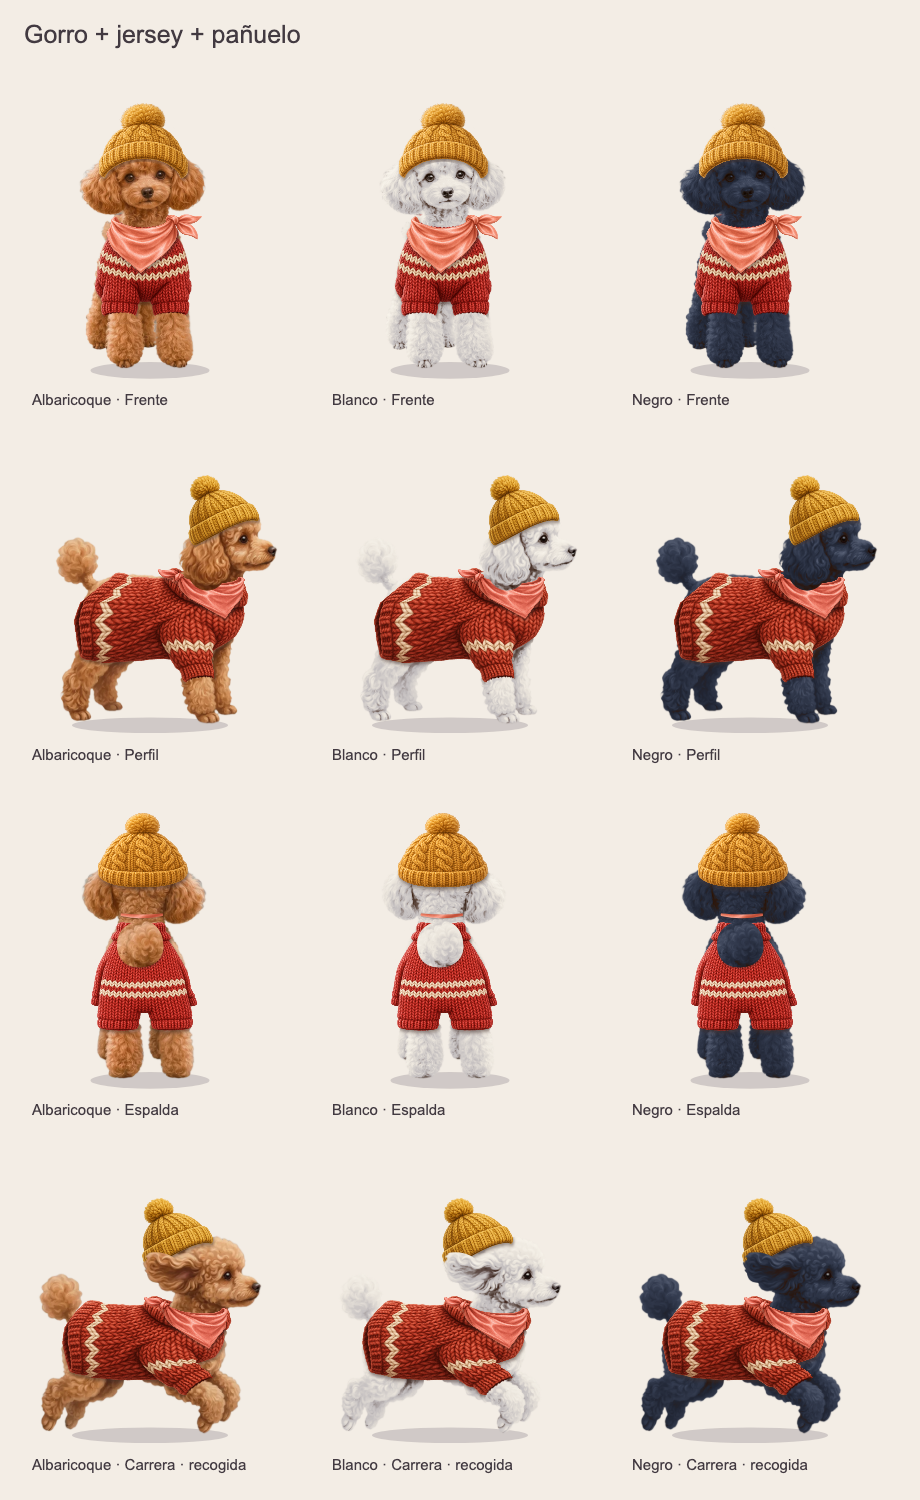
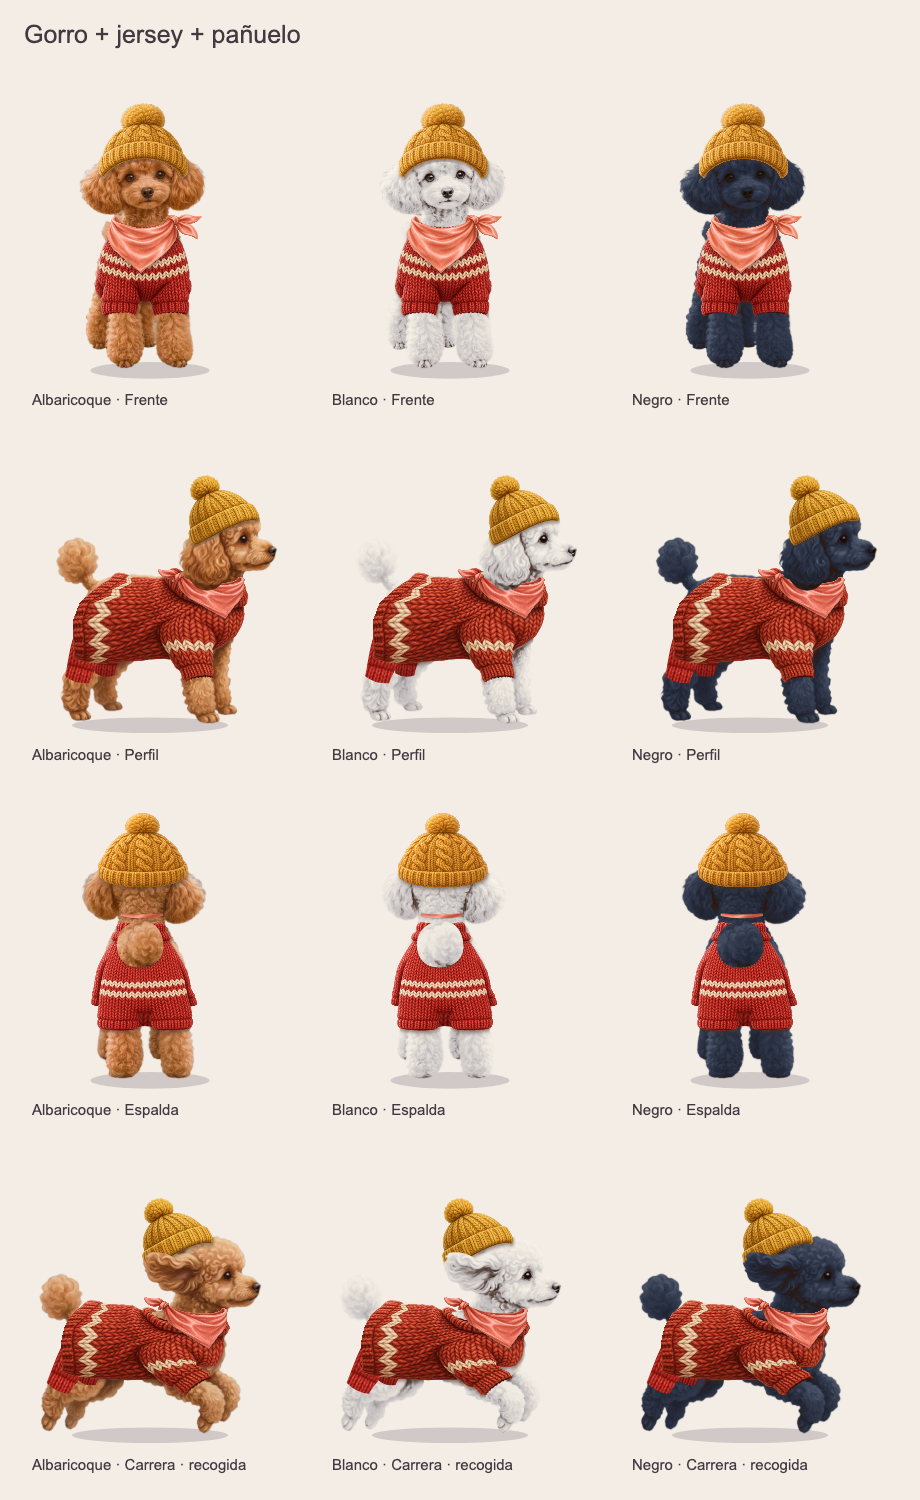
Cierra las perneras y ajusta el jersey en carrera

diff --git a/lib/game/pet/integrated_accessories.dart b/lib/game/pet/integrated_accessories.dart
@@ -133,8 +133,21 @@ class IntegratedAccessories {
     final hindQuarter = 1 - _ease((u - 0.12) / 0.33);
     final hipWeight = hindQuarter * _ease((v - 0.06) / 0.34);
     final hemWeight = hindQuarter * _ease((v - 0.26) / 0.36);
+    final (collarDrop, chestDrop) = switch (pose) {
+      'run_a' => (0.087, 0.065),
+      'run_b' => (0.068, 0.053),
+      _ => (0.0, 0.0),
+    };
+    final collar = _ease((u - 0.43) / 0.12) * (1 - (v / 0.43).clamp(0.0, 1.0));
+    final bib =
+        _ease((u - 0.71) / 0.18) *
+        _ease((v - 0.30) / 0.25) *
+        (1 - _ease((v - 0.70) / 0.24));
     return sleeve +
-        Offset(chest * chestWeight - hip * hipWeight, hemDrop * hemWeight);
+        Offset(
+          chest * chestWeight - hip * hipWeight - collarDrop * 0.20 * collar,
+          hemDrop * hemWeight + collarDrop * collar + chestDrop * bib,
+        );
   }
 
   double _ease(double value) {
@@ -165,9 +178,13 @@ class IntegratedAccessories {
           positions.add(
             _placed(dst, deformation, u, v) + Offset(0, u * dst.width * shear),
           );
+          // La cara interior del bajo lateral queda doblada bajo la cadera.
+          final sampleU = name == 'sweater-side'
+              ? u + 0.067 * (1 - _ease(u / 0.27)) * _ease((v - 0.12) / 0.24)
+              : u;
           uv.add(
             Offset(
-              cloth.source.left + u * cloth.source.width,
+              cloth.source.left + sampleU * cloth.source.width,
               cloth.source.top + v * cloth.source.height,
             ),
           );
@@ -302,6 +319,11 @@ class IntegratedAccessories {
         ? ColorFilter.matrix(PetSprites.hueMatrix(42, light: 1.1))
         : null;
     _shadow(c, name, rect, pose, base, petRect);
+    if (pose == 'back') {
+      _paintBackSeam(c, rect, filter);
+    } else if (pose != 'front') {
+      _paintHindSleeves(c, pose, filter);
+    }
     _draw(c, name, rect, deformation: pose, colorFilter: filter);
     _openSweater(c, rect, pose, base, petRect, coatPaint);
     if (pose == 'back') {
@@ -316,6 +338,135 @@ class IntegratedAccessories {
     } else if (pose != 'front') {
       _fur(c, PetNeck.earMask(pose, lm['headTop']!), base, petRect, coatPaint);
     }
+  }
+
+  void _paintBackSeam(Canvas c, Rect rect, ColorFilter? filter) {
+    // El tejido interior une las dos perneras por encima de los puños.
+    final hem = rect.bottom - 0.021;
+    final x = rect.center.dx + 0.010;
+    final seam = Path()
+      ..moveTo(x - 0.069, hem - 0.087)
+      ..lineTo(x + 0.073, hem - 0.087)
+      ..lineTo(x + 0.053, hem + 0.015)
+      ..quadraticBezierTo(x, hem - 0.012, x - 0.055, hem + 0.015)
+      ..close();
+    _rearKnit(
+      c,
+      seam,
+      const Rect.fromLTRB(0.37, 0.71, 0.61, 0.83),
+      filter,
+      shaded: true,
+    );
+  }
+
+  void _paintHindSleeves(Canvas c, String pose, ColorFilter? filter) {
+    // Ejes desde la cadera hasta cada puño, siguiendo las dos patas del sprite.
+    final (farTop, farCuff, nearTop, nearCuff) = switch (pose) {
+      'run_a' => (
+        const Offset(-0.252, -0.285),
+        const Offset(-0.332, -0.145),
+        const Offset(-0.314, -0.260),
+        const Offset(-0.451, -0.137),
+      ),
+      'run_b' => (
+        const Offset(-0.236, -0.364),
+        const Offset(-0.289, -0.219),
+        const Offset(-0.324, -0.365),
+        const Offset(-0.418, -0.192),
+      ),
+      'jump' => (
+        const Offset(-0.234, -0.374),
+        const Offset(-0.325, -0.205),
+        const Offset(-0.335, -0.372),
+        const Offset(-0.424, -0.192),
+      ),
+      _ => (
+        const Offset(-0.181, -0.370),
+        const Offset(-0.204, -0.207),
+        const Offset(-0.270, -0.369),
+        const Offset(-0.330, -0.183),
+      ),
+    };
+    for (final (top, cuff, far) in [
+      (farTop, farCuff, true),
+      (nearTop, nearCuff, false),
+    ]) {
+      final axis = cuff - top;
+      final length = axis.distance;
+      final upper = far ? 0.064 : 0.075;
+      final lower = far ? 0.043 : 0.056;
+      final leg = Path()
+        ..moveTo(-upper, 0)
+        ..quadraticBezierTo(0, -0.020, upper, 0)
+        ..cubicTo(
+          upper,
+          length * 0.40,
+          lower,
+          length * 0.70,
+          lower,
+          length - 0.012,
+        )
+        ..quadraticBezierTo(0, length + 0.012, -lower, length - 0.008)
+        ..cubicTo(
+          -lower - 0.004,
+          length * 0.71,
+          -upper,
+          length * 0.34,
+          -upper,
+          0,
+        )
+        ..close();
+      c.save();
+      c.translate(top.dx, top.dy);
+      c.rotate(math.atan2(-axis.dx, axis.dy));
+      _rearKnit(
+        c,
+        leg,
+        const Rect.fromLTRB(0.60, 0.73, 0.89, 0.985),
+        filter,
+        shaded: far,
+      );
+      c.restore();
+    }
+  }
+
+  void _rearKnit(
+    Canvas c,
+    Path shape,
+    Rect uv,
+    ColorFilter? filter, {
+    required bool shaded,
+  }) {
+    final cloth = _images['sweater-back']!;
+    final src = cloth.source;
+    final bounds = shape.getBounds();
+    c.save();
+    c.clipPath(shape);
+    if (shaded) {
+      c.saveLayer(
+        bounds,
+        Paint()
+          ..colorFilter = const ColorFilter.mode(
+            Color(0xFFC7B7B2),
+            BlendMode.modulate,
+          ),
+      );
+    }
+    c.drawImageRect(
+      cloth.image,
+      Rect.fromLTRB(
+        src.left + src.width * uv.left,
+        src.top + src.height * uv.top,
+        src.left + src.width * uv.right,
+        src.top + src.height * uv.bottom,
+      ),
+      bounds,
+      Paint()
+        ..filterQuality = FilterQuality.medium
+        ..colorFilter = filter,
+    );
+    if (shaded) c.restore();
+    c.restore();
   }
 
   Path _tailOutline(Appearance ids, Rect petRect) {

diff --git a/test/game/integrated_accessories_review_test.dart b/test/game/integrated_accessories_review_test.dart
@@ -150,7 +150,10 @@ void main() {
             ))
             .load();
       }
-      for (final (slot, id, title, filename) in articles) {
+      for (final (slot, id, title, filename) in [
+        ...articles,
+        (Slot.neck, 'neck.coral', 'Pañuelo + jersey', 'bandana-sweater'),
+      ]) {
         final rec = ui.PictureRecorder();
         final c = ui.Canvas(rec);
         c.drawColor(const ui.Color(0xFFF3EDE5), ui.BlendMode.src);
@@ -164,9 +167,12 @@ void main() {
         final bitmaps = <ui.Image>[];
         for (final (row, coat) in coats.indexed) {
           for (final (col, view) in views.indexed) {
-            final a = b.initialAppearance
+            var a = b.initialAppearance
                 .withSlot(Slot.coat, coat.$1)
                 .withSlot(slot, id);
+            if (filename == 'bandana-sweater') {
+              a = a.withSlot(Slot.outfit, 'outfit.sweater_red');
+            }
             final image = await dog(painter, a, view.$1, view.$2, view.$3);
             bitmaps.add(image);
             final at = ui.Offset(col * 280, row * 355 + 105);
@@ -419,14 +425,20 @@ void main() {
             ui.Offset(0.394, -0.57),
             ui.Offset(0.386, -0.49),
             ui.Offset(-0.278, -0.334),
+            ui.Offset(-0.322, -0.210),
+            ui.Offset(-0.198, -0.228),
           ],
         ),
-        (views[2], const [ui.Offset(0.31, -0.48), ui.Offset(-0.35, -0.4)]),
-        (views[3], const [ui.Offset(0.29, -0.397), ui.Offset(-0.338, -0.333)]),
+        (views[2], const [ui.Offset(0.31, -0.335), ui.Offset(-0.397, -0.22)]),
+        (views[3], const [ui.Offset(0.298, -0.286), ui.Offset(-0.423, -0.169)]),
         (views[4], const [ui.Offset(0.322, -0.487), ui.Offset(-0.32, -0.42)]),
         (
           views.last,
-          const [ui.Offset(-0.10, -0.217), ui.Offset(0.086, -0.217)],
+          const [
+            ui.Offset(-0.10, -0.217),
+            ui.Offset(-0.015, -0.235),
+            ui.Offset(0.086, -0.217),
+          ],
         ),
       ];
       for (final (view, points) in coverage) {
@@ -447,6 +459,16 @@ void main() {
         }
         image.dispose();
       }
+      final (pose, animation, time, _) = views[3];
+      final image = await dog(painter, dressed, pose, animation, time);
+      final rgba = (await image.toByteData())!.buffer.asUint8List();
+      // La mandíbula baja queda libre cuando el cuello se estira.
+      final x = (140 + 0.296 * 223).round();
+      final y = (298 - 0.423 * 223).round();
+      final i = (y * 280 + x) * 4;
+      expect(rgba[i + 3], greaterThan(225));
+      expect(rgba[i] - rgba[i + 1], lessThan(30));
+      image.dispose();
     });
   });
 

diff --git a/docs/reviews/integrated-pilot/README.md b/docs/reviews/integrated-pilot/README.md
@@ -8,6 +8,7 @@ El piloto integra el gorro de lana, la familia jersey y el pañuelo coral. La re
 - [Gorro de lana](beanie.png): tres pelajes × frente, perfil, espalda y tres fotogramas de carrera.
 - [Jersey](sweater.png) muestra el pecho cubierto de perfil, los dos puños de atrás y el ajuste en carrera.
 - [Pañuelo](bandana.png) muestra la caída sobre el pecho y la franja que asoma en la nuca.
+- [Pañuelo con jersey](bandana-sweater.png) muestra las dos prendas en los tres pelajes y las seis vistas.
 - [Los tres artículos juntos](combination.png): orden de capas sobre los tres pelajes, de frente, de perfil, de espaldas y en carrera.
 - [Accesorios del cuello](neck-fit.png) muestra pañuelo coral y de punto, pajarita y collares con chapa, cascabel y perlas en tres vistas.
 
@@ -27,14 +28,14 @@ En la segunda revisión, los contornos del cuello, los puños y el bajo dejan ve
 
 El pañuelo ajusta sus dos extremos al contorno compartido del cuello en cada pose. El jersey, los collares, la pajarita y el pañuelo de punto usan la misma referencia. La oreja tapa parte de la vuelta en perfil y carrera.
 
-La malla lateral del jersey se extiende hasta el pecho y abraza la cadera. De espaldas, el bajo se ajusta alrededor de ambas patas traseras.
+La malla del jersey baja el cuello y cubre el pecho en recogida y extensión. De perfil, los puños traseros siguen el eje de cada pata. Por detrás, una pieza de punto cierra la unión entre las dos perneras.
 
 ## Validación
 
 - `flutter analyze --no-pub` sin incidencias.
 - `flutter test --no-pub` con **149 pruebas correctas**. Incluye el ajuste del jersey en el pecho y las patas traseras, la posición del pañuelo respecto a la cola y el giro del caniche en Casa.
-- El piloto produce 54 capturas individuales, 12 del conjunto y 18 primeros planos de los accesorios de cuello.
-- Comprobación visual local de las seis láminas. La prueba de facciones comprueba ojos y hocico con margen de dos niveles de canal para redondeo del raster/alfa.
+- El piloto produce 54 capturas individuales, 18 del pañuelo con jersey, 12 del conjunto y 18 primeros planos de los accesorios de cuello.
+- Comprobación visual local de las láminas. La prueba de facciones comprueba ojos y hocico con margen de dos niveles de canal por el redondeo de la imagen.
 
 Regenerar capturas:
 
